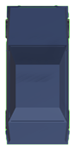
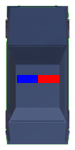
Player car is now drawed as police car if the level is special

Changed region(s): [[0.2133, 0.48, 0.8, 0.56]]

diff --git a/src/source/controller/MapExtractor.java b/src/source/controller/MapExtractor.java
@@ -24,7 +24,9 @@ public class MapExtractor {
 
 	public Map extractLevel(int level, Player player) throws FileNotFoundException
    {
-      vehicleArray.clear();
+   	  String theme = "minimalistic";
+   	  boolean special = true;
+   	  vehicleArray.clear();
       //inside of the if condition will be revised
       if (player != null && player.getLevels().size() >= level && player.getLevels().get(level - 1).getStatus().equals("inProgress"))
 	  {
@@ -45,9 +47,10 @@ public class MapExtractor {
       {
     	  scanLevel = new Scanner(new File("src/data/levels/level" + level + ".txt"));
       }
+
       int x = 0;
       int y = 0;
-      
+
       while (!scanLevel.nextLine().trim().equals("<Map>"));
       String row = scanLevel.nextLine();
       do {
@@ -64,25 +67,25 @@ public class MapExtractor {
             String objectCode = scanRow.next();
 
             if (objectCode.equals("TU")) {
-               vehicleArray.add(new Truck(x, y, "Upwards", false));
+               vehicleArray.add(new Truck(x, y, "Upwards", false, special, theme));
             } else if (objectCode.equals("TD")) {
-               vehicleArray.add(new Truck(x, y, "Downwards", false));
+               vehicleArray.add(new Truck(x, y, "Downwards", false, special, theme));
             } else if (objectCode.equals("TR")) {
-               vehicleArray.add(new Truck(x, y, "Right", false));
+               vehicleArray.add(new Truck(x, y, "Right", false, special, theme));
             } else if (objectCode.equals("TL")) {
-               vehicleArray.add(new Truck(x, y, "Left", false));
+               vehicleArray.add(new Truck(x, y, "Left", false, special, theme));
             } else if (objectCode.equals("CU")) {
-               vehicleArray.add(new Car(x, y, "Upwards", false));
+               vehicleArray.add(new Car(x, y, "Upwards", false, special, theme));
             } else if (objectCode.equals("CD")) {
-               vehicleArray.add(new Car(x, y, "Downwards", false));
+               vehicleArray.add(new Car(x, y, "Downwards", false, special, theme));
             } else if (objectCode.equals("CR")) {
-               vehicleArray.add(new Car(x, y, "Right", false));
+               vehicleArray.add(new Car(x, y, "Right", false, special, theme));
             } else if (objectCode.equals("CL")) {
-               vehicleArray.add(new Car(x, y, "Left", false));
+               vehicleArray.add(new Car(x, y, "Left", false, special, theme));
             } else if (objectCode.equals("PC")) {
-               vehicleArray.add(new Car(x, y, "Left", true));
+               vehicleArray.add(new Car(x, y, "Left", true, special, theme));
             } else if (objectCode.equals("PT")) {
-               vehicleArray.add(new Truck(x, y, "Right", true));
+               vehicleArray.add(new Truck(x, y, "Right", true, special, theme));
             }
             x++;
          }

diff --git a/src/source/model/Vehicle.java b/src/source/model/Vehicle.java
@@ -23,9 +23,8 @@ public class Vehicle extends GameObject implements Drawable {
 		super();
 	}
 
-	public Vehicle(int x, int y, int length, String direction, boolean player) {
+	public Vehicle(int x, int y, int length, String direction, boolean player, boolean special, String theme) {
 		super(x, y, length, direction);
-		String theme = "traffic";
 		this.player = player;
 		vehicleImages = new BufferedImage[length];
 		String path = "src/image/theme_" + theme + "/";
@@ -35,10 +34,12 @@ public class Vehicle extends GameObject implements Drawable {
 			path += "small";
 		else if (!player && length == 3)
 			path += "large";
-		else if (player)
+		else if (player && !special)
 			path += "player";
+		else if(player && special)
+			path += "police";
 
-		if (direction == "Upwards" || direction == "Right"){
+		if (direction.equals("Upwards") || direction.equals("Right")){
 			for(int i = 0; i < length; i++){
 				if(!player){
 					vehicleImages[i] = LoadImage(path + carType + "-" + i + ".png");
@@ -106,13 +107,13 @@ public class Vehicle extends GameObject implements Drawable {
 		// graphics2d.drawImage(car,at,null);
 		for (int i = 0; i < transform.length; i++) {
 			AffineTransform at = AffineTransform.getTranslateInstance(occupiedTransforms[i].position.x*75,occupiedTransforms[i].position.y*75);
-			if(transform.direction == "Upwards")
+			if(transform.direction.equals("Upwards"))
 				graphics2d.drawImage(vehicleImages[i],at,null);
-			else if(transform.direction == "Downwards"){
+			else if(transform.direction.equals("Downwards")){
 				at.rotate(Math.toRadians(180), vehicleImages[i].getWidth()/2.0,vehicleImages[i].getHeight()/2.0);
 				graphics2d.drawImage(vehicleImages[i],at,null);
 			}
-			else if(transform.direction == "Left"){
+			else if(transform.direction.equals("Left")){
 				at.rotate(Math.toRadians(90), vehicleImages[i].getWidth()/2.0,vehicleImages[i].getHeight()/2.0);
 				graphics2d.drawImage(vehicleImages[i],at,null);
 			}

diff --git a/src/source/controller/GameEngine.java b/src/source/controller/GameEngine.java
@@ -17,8 +17,8 @@ public class GameEngine extends TimerTask {
 	public GameEngine() {
 		instance = this; // extremely simple singleton to access gameEngine with ease
 
-      soundManager = new SoundManager();
-      mapController = new MapController();
+      	soundManager = new SoundManager();
+      	mapController = new MapController();
 		vehicleController = new VehicleController();
 		gameManager = new GameManager();
 		playerManager = new PlayerManager();
@@ -29,9 +29,9 @@ public class GameEngine extends TimerTask {
 	// calls the update method of other classes that needs to be updated
 	public void run()
    {
-      gameManager.Update();
-		vehicleController.Update();
+      	gameManager.Update();
+      	vehicleController.Update();
 
-      Input.reset();
+      	Input.reset();
 	}
 }

diff --git a/src/source/model/Truck.java b/src/source/model/Truck.java
@@ -16,8 +16,8 @@ import interfaces.Drawable;
 
 public class Truck extends Vehicle {
 
-	public Truck(int x, int y, String direction, boolean player) {
-		super(x, y, 3, direction, player);
+	public Truck(int x, int y, String direction, boolean player, boolean special, String theme) {
+		super(x, y, 3, direction, player, special, theme);
 		if (player) {
 			super.setType("Player");
 		} else {

diff --git a/src/source/model/Car.java b/src/source/model/Car.java
@@ -15,9 +15,9 @@ import interfaces.Drawable;
 
 public class Car extends Vehicle {
 
-	public Car(int x, int y, String direction, boolean player)
+	public Car(int x, int y, String direction, boolean player, boolean special, String theme)
 	{
-		super(x, y, 2, direction, player);
+		super(x, y, 2, direction, player, special, theme);
 		if (player)
 		{
 			super.setType("Player");
